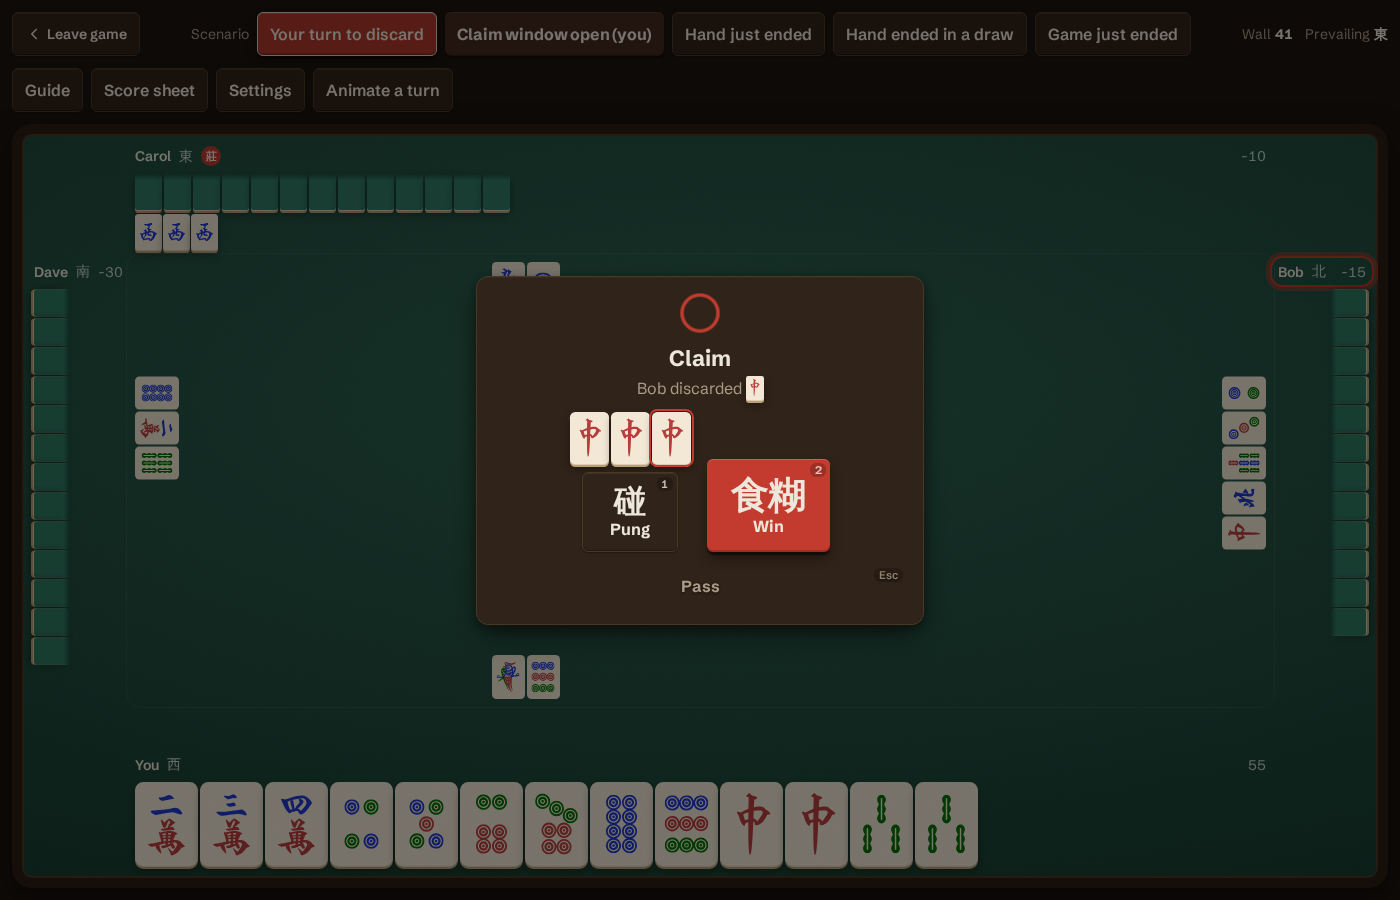
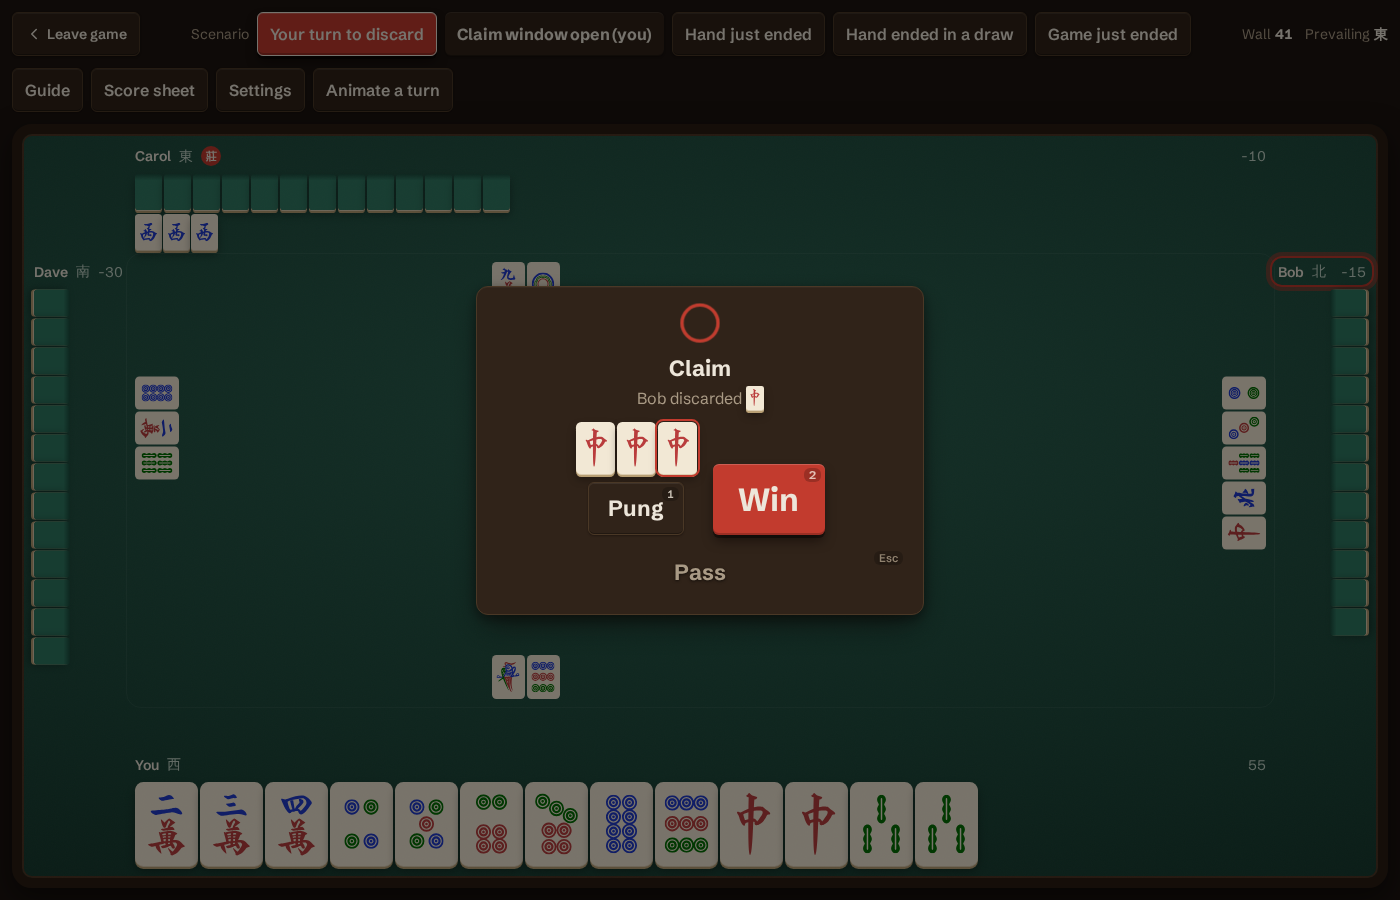
feat(web): drop the CJK call glyph from claim buttons
Claude-Session: https://claude.ai/code/session_016N6BrhuJ77Wo7osov28duU

Changed region(s): [[0.3379, 0.28, 0.6757, 0.7156]]

diff --git a/web/src/lib/ui/ClaimDialog.svelte b/web/src/lib/ui/ClaimDialog.svelte
@@ -1,7 +1,7 @@
 <script lang="ts">
 	import TileFace from '../table/TileFace.svelte';
 	import type { TileCode } from '../table/tile-code';
-	import type { ClaimKind, ClaimOption } from './ClaimButtons.svelte';
+	import type { ClaimOption } from './ClaimButtons.svelte';
 	import { claimOptionAriaLabel, claimOptionKey, claimOptionLabel } from './claim-option';
 	import DialogTimer from './DialogTimer.svelte';
 	import { m } from '$lib/paraglide/messages.js';
@@ -36,16 +36,6 @@
 		if (option.kind === 'chow') tiles.sort((a, b) => a.code.localeCompare(b.code));
 		return tiles;
 	}
-
-	// exempt literals (web/AGENTS.md "No literal user-facing strings" §9) -- same Cantonese call
-	// glyphs as the declare-actions buttons, not translated.
-	const CLAIM_GLYPH: Record<ClaimKind, string> = {
-		pass: '',
-		chow: '上',
-		pung: '碰',
-		kong: '槓',
-		win: '食糊'
-	};
 
 	// pass renders on its own row below the rest, so number keys index the non-pass options only.
 	const callOptions = $derived(options.filter((option) => option.kind !== 'pass'));
@@ -116,7 +106,6 @@
 						onclick={() => onChoose(option)}
 					>
 						<span class="claim-btn-key" aria-hidden="true">{index + 1}</span>
-						<span class="claim-btn-glyph" aria-hidden="true">{CLAIM_GLYPH[option.kind]}</span>
 						<span class="claim-btn-label">{claimOptionLabel(option)}</span>
 					</button>
 				</div>
@@ -230,7 +219,7 @@
 		outline-offset: 1px;
 	}
 
-	// each option is a big button, not a plain label -- key badge, CJK glyph, label.
+	// each option is a big button, not a plain label -- key badge and label.
 	.claim-btn {
 		position: relative;
 		display: flex;
@@ -256,12 +245,8 @@
 		opacity: 0.8;
 	}
 
-	.claim-btn-glyph {
-		font-size: var(--font-size-xl);
-		line-height: 1;
-	}
-
 	.claim-btn-label {
+		font-size: var(--font-size-lg);
 		font-weight: 700;
 	}
 
@@ -284,8 +269,8 @@
 		@include buttons.btn-primary;
 	}
 
-	.claim-btn--win .claim-btn-glyph {
-		font-size: calc(var(--font-size-xl) * 1.2);
+	.claim-btn--win .claim-btn-label {
+		font-size: var(--font-size-xl);
 	}
 
 	// phone: a bottom sheet instead of a centred card -- `.claim-overlay` (+page.svelte) still

diff --git a/web/src/lib/ui/ClaimDialog.spec.ts b/web/src/lib/ui/ClaimDialog.spec.ts
@@ -87,7 +87,7 @@ describe('ClaimDialog', () => {
 		expect(body).toContain('claim-btn--pass');
 	});
 
-	it('shows a CJK glyph for pung/chow/kong/win, not for pass, and no sub-label', () => {
+	it('labels buttons with the kind only -- no CJK glyph, no sub-label', () => {
 		const options: ClaimOption[] = [
 			{ kind: 'pung', tiles: ['z5', 'z5'] },
 			{ kind: 'win' },
@@ -96,9 +96,10 @@ describe('ClaimDialog', () => {
 		const { body } = render(ClaimDialog, {
 			props: { discardTile: 'z5', discarderName: 'Bob', options, durationMs: 5000, onChoose: noop }
 		});
-		expect(body).toMatch(/class="claim-btn-glyph[^"]*"[^>]*>碰</);
-		expect(body).toMatch(/class="claim-btn-glyph[^"]*"[^>]*>食糊</);
-		expect(body).not.toMatch(/claim-btn--pass[\s\S]*?claim-btn-glyph/);
+		expect(body).toMatch(/class="claim-btn-label[^"]*">Pung</);
+		expect(body).toMatch(/class="claim-btn-label[^"]*">Win</);
+		expect(body).not.toContain('claim-btn-glyph');
+		expect(body).not.toContain('食糊');
 		expect(body).not.toContain('claim-btn-sublabel');
 	});
 

diff --git a/docs/frontend.md b/docs/frontend.md
@@ -344,8 +344,8 @@ auto-pass, since the server treats a seat's first-received choice as final. Pref
 dialog that never closes on its own. `hand_end_ack` gets the same auto-close with none of this
 risk: it's an acknowledgment, and the table advances at the same `deadline_ts` regardless.
 
-**`ClaimDialog` layout.** Each option is a big button (meld preview above it, a CJK call glyph
-碰/上/槓/食糊 inside, the kind label, a `1`-`N` key-hint badge; no sub-label) — Win gets the same
+**`ClaimDialog` layout.** Each option is a big button (meld preview above it, the localized kind
+label inside, a `1`-`N` key-hint badge; no CJK call glyph, no sub-label) — Win gets the same
 accent-glow treatment as a `SeatPlate` turn halo, sized up from its siblings, since it's the one
 choice worth making unmissable. Pass is always its own full-width row below the call options,
 never beside them, and carries an "Esc" hint instead of a number; `1`-`N` index the call options
